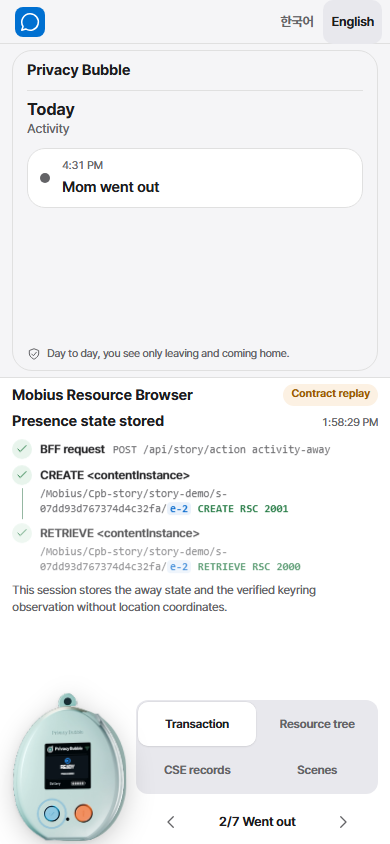
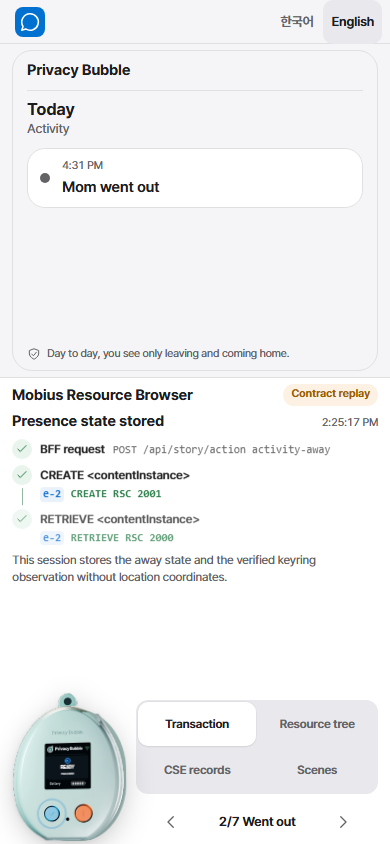
fix(web-dashboard): fit compact Mobius demo states

diff --git a/web-dashboard/src/story.css b/web-dashboard/src/story.css
@@ -733,22 +733,32 @@
   .story-trace-step[data-step="request"] > div { display: flex; flex-wrap: wrap; align-items: baseline; column-gap: var(--s2); }
   .story-trace-step strong { font-size: 12px; line-height: 20px; }
   .story-trace-step code { font-size: 11px; line-height: 1.35; }
-  .story-trace-rsc { display: inline; margin: 0 0 0 .6em; white-space: nowrap; }
-  .story-trace-path + .story-trace-path { margin-top: 2px; }
+  /* Compact receipt: each record reads as its resource name plus RSC, records side by side.
+     The full path stays in Resource tree (node detail) and CSE records, so live CSE paths of any
+     length never grow the panel (P12). data-trace-path keeps the full path for tests. */
+  .story-trace-parent { display: none; }
+  .story-trace-step:is([data-step="create"], [data-step="readback"]) > div { display: flex; flex-wrap: wrap; align-items: baseline; gap: 2px 14px; }
+  .story-trace-step:is([data-step="create"], [data-step="readback"]) > div > strong { flex: 1 0 100%; }
+  .story-trace-step .story-trace-path { display: inline-flex; flex-wrap: wrap; align-items: baseline; column-gap: .6em; max-width: 100%; }
+  .story-trace-path + .story-trace-path { margin-top: 0; }
+  .story-trace-rsc { display: inline; margin: 0; white-space: nowrap; }
+  .story-trace-rn { overflow-wrap: anywhere; white-space: normal; }
   .story-trace-summary { font-size: 12px; line-height: 1.4; }
 
   .mobius-tree-toolbar > p { display: none; }
   .mobius-tree-toolbar { flex-wrap: nowrap; justify-content: space-between; }
   .mobius-tree-scroll { padding: 2px 0; }
+  /* Two-line rows: dot and name, then type and RSC flowing on one line (wrapping when narrow) */
   .mobius-tree summary, .mobius-tree-leaf > button {
-    grid-template-columns: 10px minmax(0, 1fr);
-    grid-template-areas: "dot name" ". kind" ". rsc";
+    display: flex; flex-wrap: wrap; align-items: baseline; column-gap: var(--s2); row-gap: 0;
     padding-block: 3px;
   }
-  .mobius-node-name { font-size: 13px; }
+  .mobius-node-dot { align-self: center; flex: none; }
+  .mobius-node-name { flex: 1 1 calc(100% - 16px); font-size: 13px; }
+  .mobius-tree summary small, .mobius-tree-leaf small { margin-left: 16px; }
   .mobius-tree summary small, .mobius-tree-leaf small,
   .mobius-tree summary b, .mobius-tree-leaf b { font-size: 11px; line-height: 1.3; }
-  .mobius-tree summary b, .mobius-tree-leaf b { justify-self: start; text-align: left; }
+  .mobius-tree summary b, .mobius-tree-leaf b { text-align: left; }
   .mobius-node-detail p, .mobius-node-detail button, .mobius-node-detail > div { display: none; }
   .mobius-node-detail code { font-size: 11px; line-height: 1.35; }
 
@@ -793,7 +803,25 @@
   .story-demo:not(.capture) .story-auto-form { gap: 6px; margin-top: 0; }
   .story-demo:not(.capture) .story-auto-form label { gap: 2px; font-size: 11px; }
   .story-demo:not(.capture) .story-auto-form input { min-height: 44px; padding: 8px 12px; font-size: var(--t-callout); }
-  .story-demo:not(.capture) .story-inline-error { margin-top: var(--s2); font-size: 12px; }
+  /* Session error: one status row (message, 44px Reconnect). While it shows, it takes the place of
+     the app title bar, so the scene keeps its height and nothing overlaps (P12). */
+  .story-demo:not(.capture) .story-inline-error {
+    flex: none;
+    display: grid; grid-template-columns: minmax(0, 1fr) auto; align-items: center; gap: 4px;
+    margin: 8px 0 0; padding: 4px 4px 4px 12px; border-radius: 12px;
+    font-size: 12px; line-height: 1.3;
+  }
+  .story-demo:not(.capture) .story-inline-error > span { min-width: 0; overflow-wrap: anywhere; }
+  .story-demo:not(.capture) .story-inline-error button { min-width: 44px; min-height: 44px; margin: 0; padding-inline: 10px; font-size: 13px; }
+  .story-demo:not(.capture) .story-phone:has(> .story-inline-error) .story-header { display: none; }
+  .story-demo:not(.capture) .story-inline-error + .story-content { padding-top: 6px; }
+  /* The banner also stands in for the privacy footnote; the footnote stays available to screen
+     readers (login's passcode description still resolves). */
+  .story-demo:not(.capture) .story-inline-error + .story-content .story-privacy-note {
+    position: absolute; width: 1px; height: 1px; margin: -1px; padding: 0;
+    overflow: hidden; clip: rect(0 0 0 0); white-space: nowrap; border: 0;
+  }
+  .story-demo:not(.capture) .story-server-message { padding: 4px 10px; border-radius: 10px; font-size: 11px; line-height: 1.3; }
 }
 
 /* ---------- Phone landscape: Mobius | app, one bottom bar, keyring in the Mobius rail (S6) ----------
@@ -821,7 +849,7 @@
 
   .story-stage {
     padding: 6px max(8px, var(--safe-right)) 4px max(8px, var(--safe-left));
-    grid-template-columns: minmax(0, 1fr) minmax(280px, 36%);
+    grid-template-columns: minmax(0, 1fr) minmax(280px, 40%);
     column-gap: 12px;
   }
   .story-mobius {
@@ -837,7 +865,14 @@
     justify-items: start; gap: 6px; padding: 4px 0 0;
   }
   .story-mobius-head h2 { font-size: 13px; line-height: 1.3; }
-  .story-server-message { margin-bottom: var(--s2); }
+  .story-server-message { margin-bottom: 6px; }
+
+  /* App pane in 390px of height: compact-height title bar (HIG 32pt) and tighter cards */
+  .story-demo:not(.capture) .story-header { min-height: 36px; }
+  .story-demo:not(.capture) .story-phone { padding-bottom: 6px; }
+  .story-demo:not(.capture) .story-content { padding-top: 6px; }
+  .story-demo:not(.capture) :is(.story-access-card, .story-check-card) { gap: 1px; padding: 6px 10px; line-height: 1.25; }
+  .story-demo:not(.capture) .story-message { padding: 5px 10px; line-height: 1.3; }
 }
 
 /* ---------- Portrait fallback: app above, Mobius sheet below, keyring deck at the bottom-left ----------

diff --git a/web-dashboard/apple.md b/web-dashboard/apple.md
@@ -162,7 +162,8 @@ in over `--story-quick`; trace steps appear together once the response is in.
      in 13px muted (session id, actions left).
   2. Panel switcher: a segmented control (`Transaction | Resource tree | CSE records`),
      max 440px wide, 44px segments, 12px track radius, 10px thumb radius.
-  3. Panel: Transaction is the hero (S4). Resource tree pages three rows at a time with a
+  3. Panel: Transaction is the hero (S4). Resource tree pages three rows at a time (below
+     1024px each row is two lines: dot and name, then type and RSC flowing together) with a
      `< 1/4 >` pager and a quiet `Sync`; the count line ("10 resources") sits left of the pager.
      The node detail under the rows shows the type, the RETRIEVE result, the full path and
      `Copy full path`. CSE records page one record at a time.
@@ -192,11 +193,19 @@ This session stores the away state ... without location coordinates.   15px mute
 - One hero per action: it lists every record the last action wrote (a keyring press writes
   the button observation and the confirmation or panic record; each gets its own path line
   under CREATE and its own line under RETRIEVE).
-- Path: parent segments in `--muted`, the new resource name in accent 600 on `--accent-soft`,
-  kept whole (`white-space: nowrap`). Parent segments wrap anywhere; nothing truncates.
-- Phones: the eyebrow is dropped (the switcher already says Transaction), the title is
-  15px, codes are 11px, the request label and its code share one line, and each RSC follows
-  its path on the same line, so two records per step still fit 844 x 390.
+- Desktop path: parent segments in `--muted`, the new resource name in accent 600 on
+  `--accent-soft`, kept whole (`white-space: nowrap`). Parent segments wrap anywhere; nothing
+  truncates.
+- Below 1024px (phone landscape and portrait) the Transaction panel is a compact receipt:
+  the eyebrow is dropped (the switcher already says Transaction), the title is 15px, codes
+  are 11px, the request label and its code share one line, and each record reads as its
+  resource name token plus `CREATE RSC 2001` or `RETRIEVE RSC 2000` on one line, records side
+  by side and wrapping as whole tokens. The parent path is hidden here and shown in full in
+  Resource tree (node detail) and CSE records, so live CSE paths of any length keep the panel
+  inside its box (P12). `data-trace-path` still carries the full path.
+- Length budget for the compact receipt at 844 x 390: two records per step with live
+  paths such as `/Mobius/dash-operator/story-demo/s-13bd1f81b260c3b6c07/keyring-observation/e-2-f4d325`
+  fit the 288px panel (iPhone landscape insets: 267px; 390 x 844 portrait: 280px).
 - The same new resource name is tinted in three places: the trace path, the tree node and
   the matching record row. Tint: `--accent-soft` background plus a 3px `--accent` inset bar on
   the leading edge; two soft pulses over `--story-fresh`, then the tree node stays in its
@@ -233,18 +242,18 @@ This session stores the away state ... without location coordinates.   15px mute
 | Resource   | Resident confirmation stored     1:51 PM    | Bubble   |
 | Browser    |  v BFF request  POST /api/story/action ...  | Today    |
 | [Replay]   |  v CREATE <contentInstance>                 | Activity |
-| Session .. |    /Mobius/../keyring-observation/e-2 RSC.. |          |
+| Session .. |    e-2-f4d325 CREATE RSC 2001  e-3-.. RSC.. |          |
 |            |  v RETRIEVE <contentInstance>               |          |
 | [keyring]  | This session stores ...                     |          |
 +--------------------------------------------------------------------+
 | (B)               <   2/7 Went out   >                   KO | EN   |  44 + safe bottom
 +--------------------------------------------------------------------+
-   112px rail          Mobius content                    app 36%, min 280px
+   112px rail          Mobius content                    app 40%, min 280px
 ```
 
 - The top bar folds into one bottom bar: brand left, scene navigation centered, language
   right. The content keeps the full height above it (P12).
-- Stage columns: Mobius `minmax(0, 1fr)` and app `minmax(280px, 36%)`, 12px gap, 8px side
+- Stage columns: Mobius `minmax(0, 1fr)` and app `minmax(280px, 40%)`, 12px gap, 8px side
   padding or the left/right insets (47px on iPhone landscape).
 - Mobius pane: a 112px rail on the left holds the title (13px/700), the badge and the
   session meta; the keyring sits in the same rail, 6px above the bottom bar, so it overlays
@@ -252,7 +261,17 @@ This session stores the away state ... without location coordinates.   15px mute
   the column to the right of the rail.
 - App pane: the phone screen without the status bar, bezel or home indicator, on `--canvas`
   inside a 1px hairline with a 20px radius. Compact app type: title 17px, card text 13px,
-  captions 11px, buttons 44px.
+  captions 11px, buttons 44px. In landscape the title bar is 36px (compact-height navigation
+  bar, HIG 32pt) and cards use 6 x 10px padding with 1.25 line height, so every scene fits
+  271px of content height under the iPhone insets.
+- Session error (all layouts below 1024px): the app shows one status row, 12px warning text
+  on `--warning-soft` with a 44px `Reconnect` text button on the right, 8px under the pane top.
+  While it shows, it stands in for the app title bar and the privacy footnote (the footnote
+  stays in the accessibility tree, so the passcode description still resolves); the scene
+  title, cards and actions keep their places and nothing overlaps. The Mobius pane shows its
+  notice as one 11px row above the switcher. Budget: a 93-character English message is a
+  55px row at 844 x 390 (3 lines) and a 70px row under the iPhone insets (4 lines); the
+  tightest scene (care-request) keeps 1px to spare there.
 - Intro in landscape: S1 at 190px, hint line 12px under it, bottom bar visible.
 
 ### Phone portrait (portrait and 760px wide or less)
@@ -289,7 +308,7 @@ This session stores the away state ... without location coordinates.   15px mute
 | Mobius Resource Browser [R]  |  sheet on --surface
 | Presence state stored        |
 |  v BFF request ...           |
-|  v CREATE ... e-2 RSC 2001   |
+|  v CREATE  e-2 RSC 2001      |
 |                              |
 |  ______  [Transaction|Tree ] |  bottom deck: keyring left,
 | |keyrg|  [Records |Scenes  ] |  2 x 2 panel switcher right
@@ -314,11 +333,14 @@ This session stores the away state ... without location coordinates.   15px mute
 | Scene navigation moves to one minimal bottom row | The top bar keeps identity and language only; navigation sits where the thumb and the eye finish | P2, P12 |
 | Phone landscape folds the top bar into the bottom bar | 390px of height leaves room for full paths with RSC only when chrome is one 44px row | P12 |
 | The keyring lives in a reserved gutter (desktop), a Mobius rail (landscape) or a bottom deck (portrait) | A floating overlay must never cover a record; each layout reserves exactly the model box | P8 |
-| Desktop trace is one vertical receipt; compact trace puts each RSC on its path line | Paths read in full at 13px on desktop and at 11px in 844 x 390 without truncation | P4, P6 |
-| Resource names in paths never break (`nowrap`); parent segments break anywhere | The created name is the answer to the press and must read as one token | P2, P4 |
+| Desktop trace is one vertical receipt with full paths; below 1024px the trace shows resource name plus RSC per record and hides the parent path | Live CSE paths (for example `dash-operator` sessions) are longer than replay paths; at 844 x 390 full paths grew the panel to 309px inside 288px. Full paths stay readable in Resource tree and CSE records | P4, P6, P12 |
+| Resource names in desktop paths never break (`nowrap`); in the compact receipt each name-plus-RSC record wraps as a whole token | The created name is the answer to the press and must read as one token | P2, P4 |
 | Panels page instead of scrolling (switcher plus `< n/m >` pagers) | Zero nested scroll keeps the one-viewport contract and the keyring position stable | P12 |
 | Segmented controls and the language toggle share one light thumb token pair; dark mode uses the iOS gray thumb | A dark thumb on a dark track read as a hole | P5, P10 |
 | Disabled pager chevrons are 40% muted glyphs without a fill | Filled grey circles looked like pressed buttons | P5 |
+| A session error banner replaces the app title bar and the privacy footnote while it shows (below 1024px) | At 844 x 390 a 93-character message pushed login 88px past the pane; the title and footnote are the least specific lines on screen, and the scene keeps its own content | P2, P12 |
+| Phone landscape app pane widened from 36% to 40%, 36px title bar, tighter cards | Under the iPhone insets care-request overflowed by 17px with no error; fewer wrapped lines fix every scene | P12 |
+| Compact tree rows are two lines (name; type plus RSC) | With the Mobius error notice the iPhone-inset tree clipped 26px inside its pager page | P12 |
 | Top bar hairline is an inset shadow | A border shrank the 44px controls by 1px and pushed the brand into the safe area | P3, P12 |
 | Focus rings inside the Mobius pane are inset (`outline-offset: -3px`) | The pane clips overflow; an outside ring would be cut at the edges | P10 |
 | Capture mode (`?capture=1`) ignores every compact app rule | The seven 390 x 844 evidence screens keep the full app design | P11 |
@@ -406,6 +428,7 @@ outside the viewport.
 | 844 x 390 landscape | intro, system | All three panels and all seven scenes fit; keyring overlaps the Mobius pane horizontally, model 104px or more; Mobius left of the app; bottom navigation within 16px of the bottom edge and clear of the keyring; no stepper in the top bar; no keyring tool chrome; every visible target 44px or more |
 | 390 x 844 portrait | intro (rotate prompt), fallback system | Prompt and keyring visible, optimized-demo copy, focus on `Continue upright`, 44px button; fallback fits with all four panels and all seven scenes; deep link keeps stage and keyring inert under the dialog |
 | iPhone portrait insets 47 / 34 | prompt | `--safe-top` 47, `--safe-bottom` 34, brand top 47 or more, continue button, keyring and bottom navigation bottoms at 810 or less |
+| 844 x 390 landscape, session error | login | A 93-character English error banner and the login content both fit the phone pane with no overflow, the banner sits above the content without overlap, Reconnect is 44 x 44 or more |
 | iPhone landscape insets 47 left and right, 21 bottom | system | brand, Mobius, keyring and navigation left edges 47 or more; app and navigation right edges 797 or less; keyring and navigation bottoms 369 or less |
 | 1440 x 900, reduced motion | system | No running animations on the dock after the transition |
 | 1440 x 900 interaction | system | Drag rotates the model; no keyring tool chrome; confirm and panic presses return Mobius receipts and panic opens check-in |
